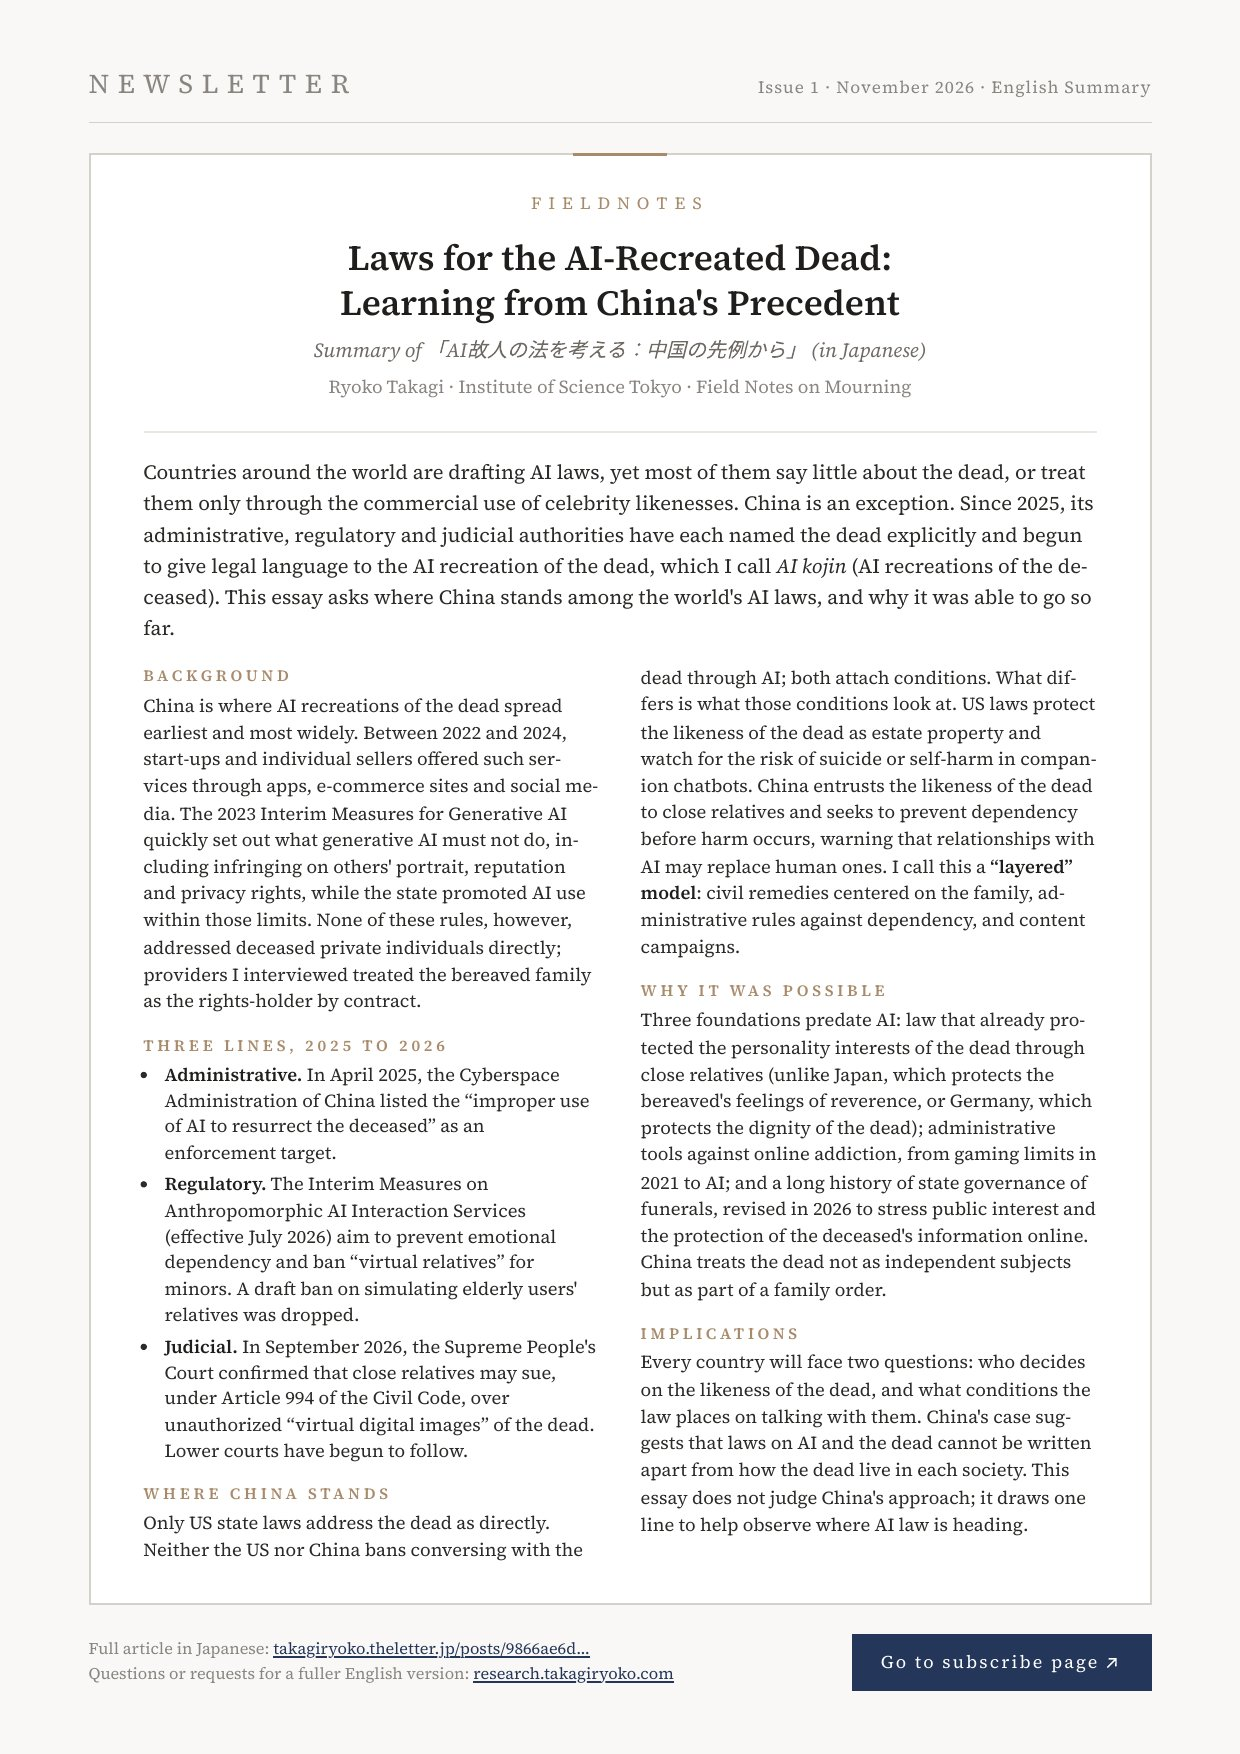
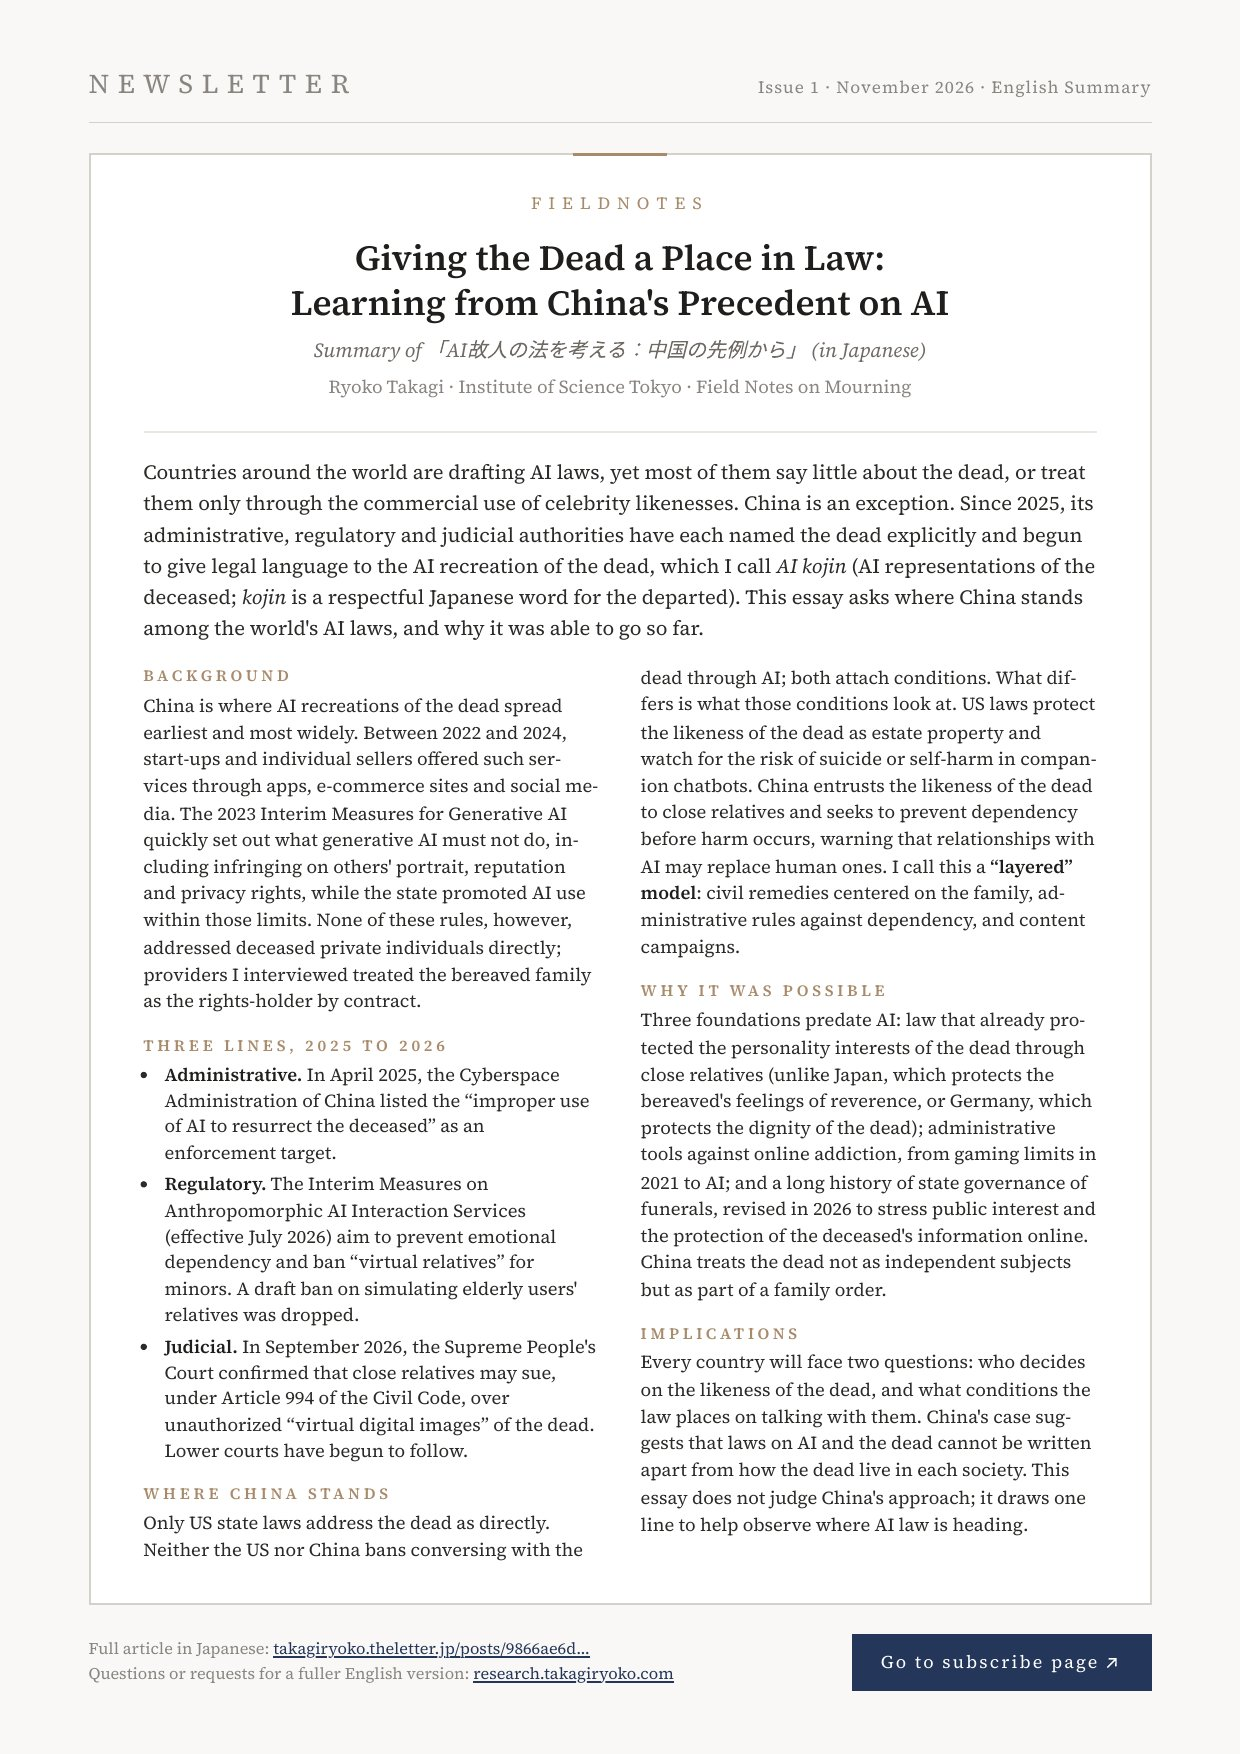
upload

Changed region(s): [[0.2452, 0.1231, 0.7661, 0.1847], [0.1226, 0.3079, 0.8887, 0.3694]]

diff --git a/src/content/english-summaries/issue-01.md b/src/content/english-summaries/issue-01.md
@@ -3,7 +3,7 @@ issue: 1
 date: 2026-11-01
 displayDate: "November 2026"
 section: "FIELDNOTES"
-title: "Laws for the AI-Recreated Dead: Learning from China's Precedent"
+title: "Giving the Dead a Place in Law: Learning from China's Precedent on AI"
 original_title_ja: "AI故人の法を考える：中国の先例から"
 description: "Countries around the world are drafting AI laws, yet most of them say little about the dead, or treat them only through the commercial use of celebrity likenesses. China is an exception. Since 2025, its administrative, regulatory and judicial authorities have each named the dead explicitly and begun to give legal language to the AI recreation of the dead. This essay asks where China stands among the world's AI laws, and why it was able to go so far."
 pdf: "english_summary_issue1.pdf"

diff --git a/src/content/news/2026-11-02-newsletter-issue1.md b/src/content/news/2026-11-02-newsletter-issue1.md
@@ -1,0 +1,12 @@
+---
+date: 2026-11-02
+displayDate: "2026.11.02"
+category: newsletter
+title_ja: 'theLetter『弔いのフィールドノート』創刊号「【論考】AI故人の法を考える：中国の先例から」を配信'
+title_en: 'theLetter newsletter "Field Notes on Mourning" Issue 1 published: "Giving the Dead a Place in Law: Learning from China''s Precedent on AI"'
+links:
+  - url_ja: https://takagiryoko.theletter.jp/posts/9866ae6d-ac49-4dd1-9190-0f36618b2762
+    label_ja: 日本語版（theLetter）を読む
+  - url_en: https://research.takagiryoko.com/english-summaries
+    label_en: Read English summary
+---
